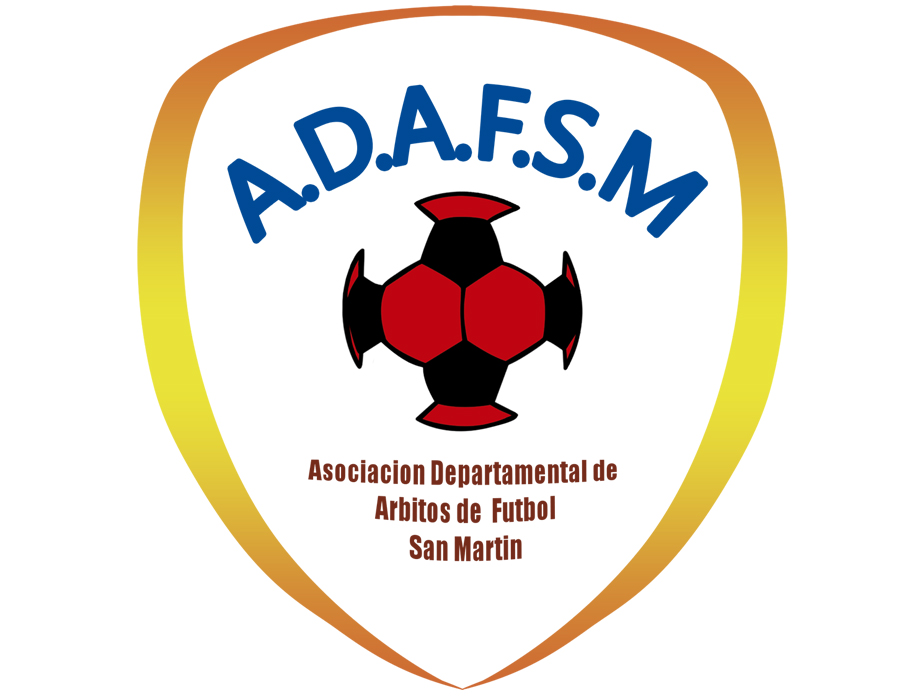
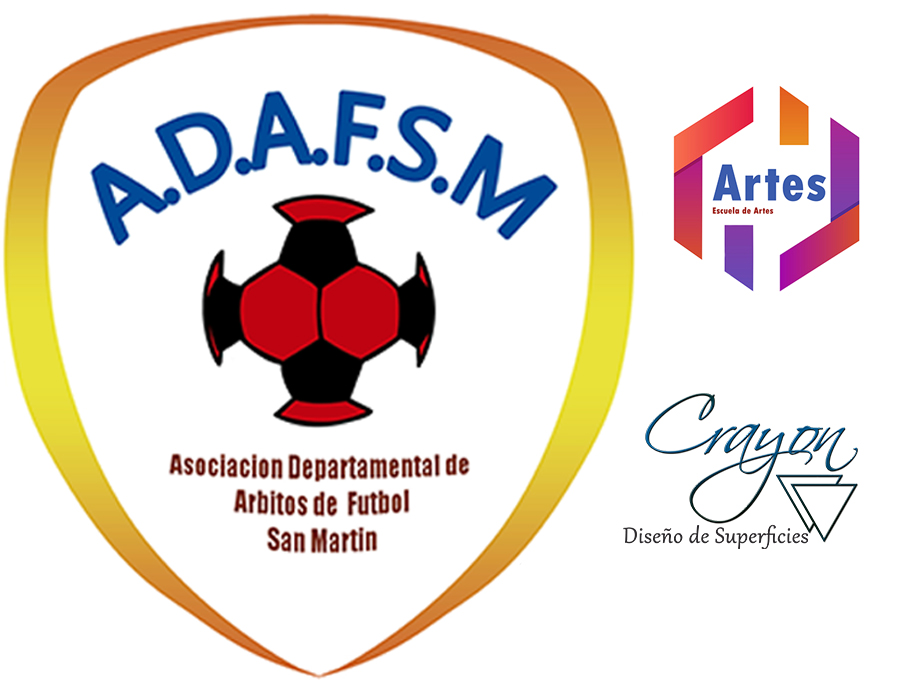
mas arreglos

diff --git a/views/argentina/guiado_framework.html b/views/argentina/guiado_framework.html
@@ -86,9 +86,9 @@
 			<div class="row">
 				<div class="col-lg-7">
 					<hr>
-				<h1 class="section_heading">Ilustraciòn Digital</h1>
+				<h1 class="section_heading">Afiche Digital</h1>
 				<br>
-				<p class="lead">Ilustraciòn de personaje para la representaciòn de la marca vast.
+				<p class="lead">Publicidad creada para a marca nido.
 				</p>
 				
 				</div>
@@ -125,7 +125,7 @@
 					<hr>
 				<h1 class="section_heading">Diseño de Logotipos</h1>
 				<br>
-				<p class="lead">refresh de logotipo Escuela de futbol.
+				<p class="lead">refresh de logotipo Escuela de futbol, Escuela de Artes y ceacion de logo para la marca Crayon.
 				</p>
 				
 				</div>
